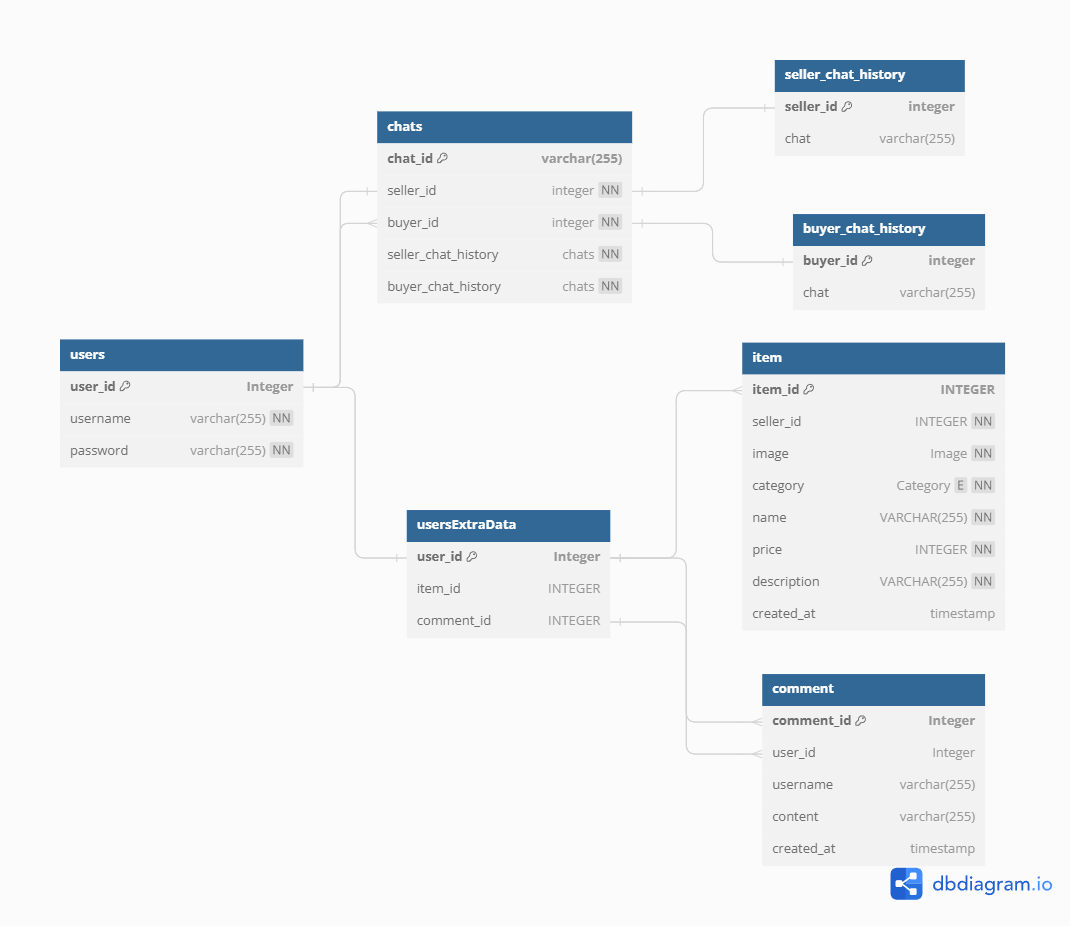
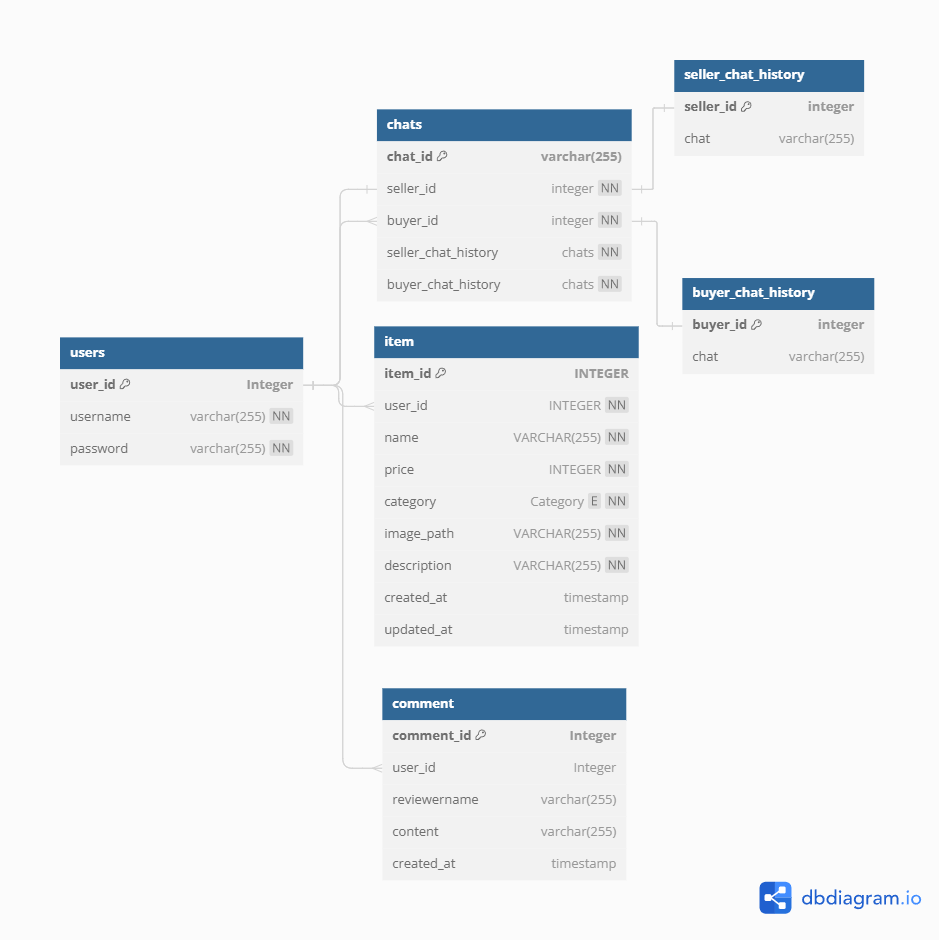
docs : erd 최신화

diff --git a/src/main/resources/static/readme.md b/src/main/resources/static/readme.md
@@ -1,0 +1,1 @@
+ERD 파일들
